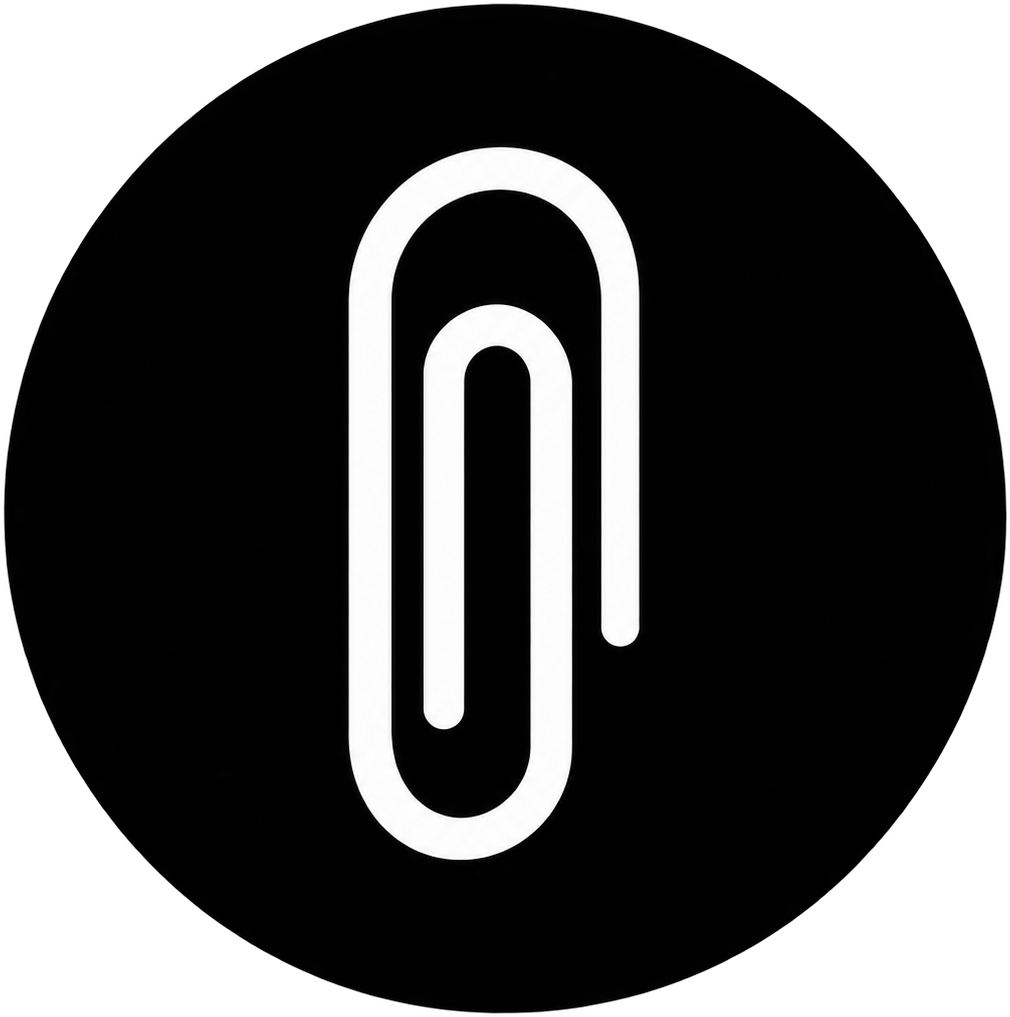
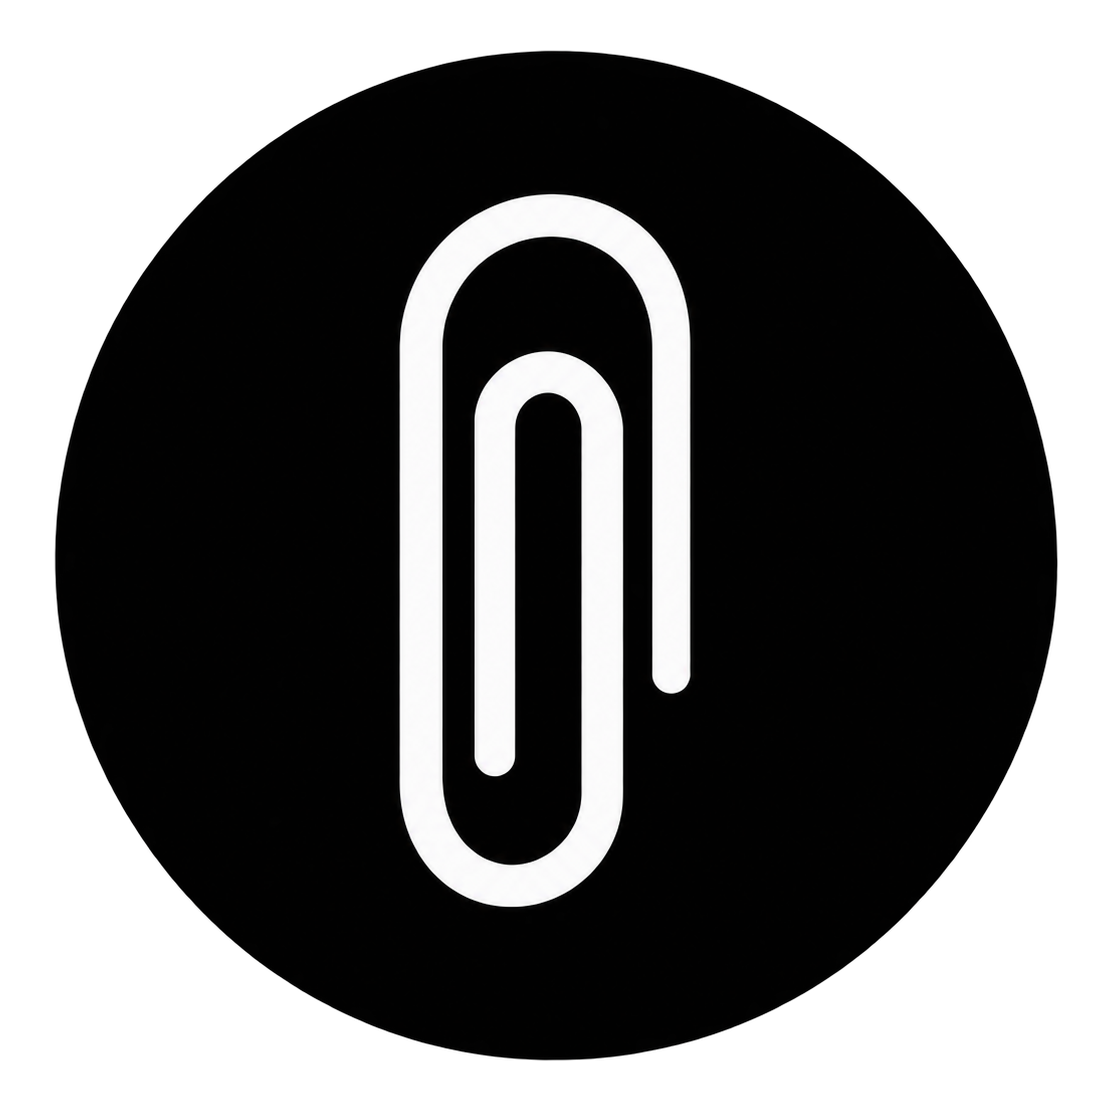
Versao 20260912_037: clipe no tamanho dos mics, distancia e alinhamento
- Icone: o clipe preenchia 100% do PNG enquanto o microfone ocupa 91%. Refiz o
  arquivo num canvas quadrado com o desenho a 91%, entao o circulo do clipe fica
  do mesmo tamanho do circulo dos microfones.
- Distancia no painel: o clipe passou a ficar a mesma distancia que se ve entre
  o microfone branco e o vermelho (o dobro do passo, porque o botao de pausa fica
  no meio e costuma estar oculto).
- Tela de resposta: o clipe e reposicionado junto com os microfones quando o
  layout e refeito (mesmo y, mesma distancia) e deixou de ter Anchor proprio, que
  o fazia subir em relacao aos mics.

Changed region(s): [[0.0, 0.0, 1.0, 1.0], [0.3376, 0.1219, 0.6446, 0.8535]]

diff --git a/TailMsg.cs b/TailMsg.cs
@@ -1719,11 +1719,14 @@ namespace TailMsg
                     liveMicButton.Size = new Size(size, size);
                     // Clipe à esquerda; a distância entre ele e o microfone
                     // branco é a mesma que separa os dois microfones.
+                    // O clipe fica a mesma distancia que se ve entre o
+                    // microfone branco e o vermelho (o dobro do passo, porque o
+                    // botao de pausa fica no meio e costuma estar oculto).
                     clipButton.Location = new Point(0, 0);
-                    recordButton.Location = new Point(size + gap, 0);
-                    pauseButton.Location = new Point((size + gap) * 2, 0);
-                    liveMicButton.Location = new Point((size + gap) * 3, 0);
-                    actionArea.Width = (size * 4) + (gap * 3) + 12 +
+                    recordButton.Location = new Point((size + gap) * 2, 0);
+                    pauseButton.Location = new Point((size + gap) * 3, 0);
+                    liveMicButton.Location = new Point((size + gap) * 4, 0);
+                    actionArea.Width = (size * 5) + (gap * 4) + 12 +
                         sendButton.Width;
                 }
                 adjustingMicButtons = false;
@@ -5270,6 +5273,12 @@ namespace TailMsg
             replyLiveMicButton = new IconButton();
             replyLiveMicButton.Size = new Size(22, 22);
             replyLiveMicButton.Location = new Point(420 - 95, replyRowTop);
+            // O clipe acompanha os microfones quando o layout é refeito: mesmo
+            // y e a mesma distância que se vê entre o branco e o vermelho.
+            if (replyClipButton != null)
+            {
+                replyClipButton.Location = new Point(420 - 147 - 52, replyRowTop);
+            }
             replyLiveMicButton.Anchor = AnchorStyles.Top | AnchorStyles.Right;
             replyLiveMicButton.AccessibleName = "Gravar na resposta com transcrição ao vivo";
 
@@ -5282,8 +5291,7 @@ namespace TailMsg
             replyClipButton.CircleOutline = Color.FromArgb(118, 130, 130);
             replyClipButton.Size = new Size(22, 22);
             replyClipButton.Location = new Point(
-                replyMicButton.Left - 30, replyMicButton.Top);
-            replyClipButton.Anchor = AnchorStyles.Top | AnchorStyles.Right;
+                replyMicButton.Left - 52, replyMicButton.Top);
             replyClipButton.AccessibleName = "Anexar arquivo na resposta";
             replyClipButton.Cursor = Cursors.Hand;
             replyClipButton.Click += delegate { AttachReplyFileFromClip(); };

diff --git a/UpdateConfig.cs b/UpdateConfig.cs
@@ -2,7 +2,7 @@ namespace TailMsg
 {
     internal static class UpdateConfig
     {
-        public const string CurrentVersion = "20260912_036";
+        public const string CurrentVersion = "20260912_037";
         public const string R2PublicBase = "https://pub-ce3b9c72c0fa4a2eb8c44a21c6ece860.r2.dev";
         public const string ManifestFileName = "tailmsg-update.json";
         public const string GitHubRepository = "spigknot/TailMsg-Windows";
